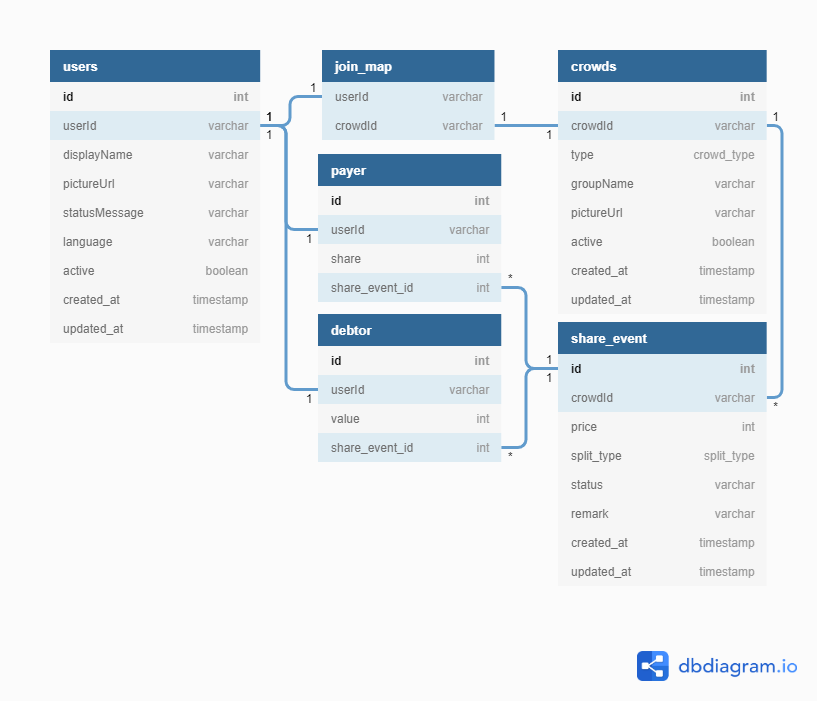
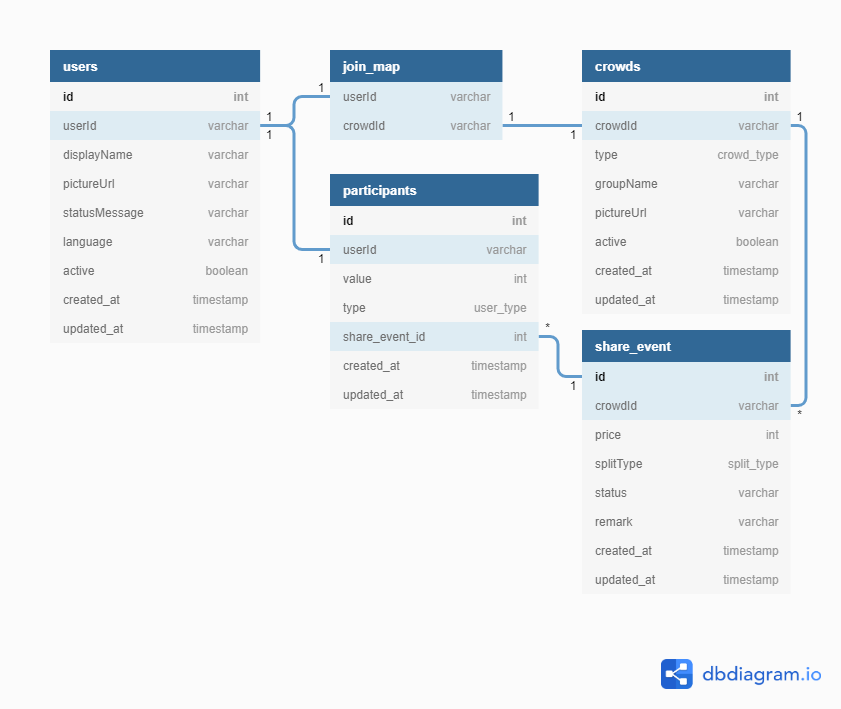
add share evnet

diff --git a/manage/migrations/20200920175602_create_users_table.js b/manage/migrations/20200920175602_create_users_table.js
@@ -1,63 +1,60 @@
 
 exports.up = function(knex) {
-    return knex.schema.createTable('users', function(table) {
-        table.increments('id');
-        table.string('userId');
-        table.string('displayName').notNullable();
-        table.string('pictureUrl').notNullable();
-        table.string('statusMessage');
-        table.string('language');
-        table.boolean('active');
-        
-        table.timestamp('created_at').defaultTo(knex.fn.now());
-        table.timestamp('updated_at').defaultTo(knex.fn.now());
-
-        table.unique(['userId']);
-      })
-      .createTable('crowds', function(table) {
-        table.increments('id');
-        table.string('crowdId')
-        table.enu('type', ['group', 'room']);
-        table.string('groupName');
-        table.string('pictureUrl');
-        table.boolean('active');
-        
-        table.timestamp('created_at').defaultTo(knex.fn.now());
-        table.timestamp('updated_at').defaultTo(knex.fn.now());
-
-        table.unique(['crowdId']);
-      })
-      .createTable('join_map', function(table) {
-        table.string('userId').notNullable().references('users.userId');
-        table.string('crowdId').notNullable().references('crowds.crowdId');
-
-        table.unique(['userId', 'crowdId'])
-      })
-      .createTable('share_event', function(table) {
-        table.increments('id');
-        table.string('crowdId').notNullable().references('crowds.crowdId');
-        table.integer('price');
-        table.enu('splitType', ['AVG', 'EXTRA', 'PERCENT', 'WEIGHTS', 'SINGLE']);
-        table.string('status');
-        table.string('remark');
-
-        table.timestamp('created_at').defaultTo(knex.fn.now());
-        table.timestamp('updated_at').defaultTo(knex.fn.now());
-      })
-      .createTable('payer', function(table) {
-        table.increments('id');
-        table.string('userId').notNullable().references('users.userId');
-        table.integer('value');
-        table.integer('share_event_id').notNullable().references('share_event.id');
-      })
-      .createTable('debtor', function(table) {
-        table.increments('id');
-        table.string('userId').notNullable().references('users.userId');
-        table.integer('value');
-        table.integer('share_event_id').notNullable().references('share_event.id');
-      })
+  return knex.schema.createTable('users', function(table) {
+      table.increments('id');
+      table.string('userId');
+      table.string('displayName').notNullable();
+      table.string('pictureUrl').notNullable();
+      table.string('statusMessage');
+      table.string('language');
+      table.boolean('active');
+      
+      table.timestamp('created_at').defaultTo(knex.fn.now());
+      table.timestamp('updated_at').defaultTo(knex.fn.now());  
+      table.unique(['userId']);
+    })
+    .createTable('crowds', function(table) {
+      table.increments('id');
+      table.string('crowdId')
+      table.enu('type', ['group', 'room']);
+      table.string('groupName');
+      table.string('pictureUrl');
+      table.boolean('active');
+      
+      table.timestamp('created_at').defaultTo(knex.fn.now());
+      table.timestamp('updated_at').defaultTo(knex.fn.now());  
+      table.unique(['crowdId']);
+    })
+    .createTable('join_map', function(table) {
+      table.string('userId').notNullable().references('users.userId');
+      table.string('crowdId').notNullable().references('crowds.crowdId');  
+      table.unique(['userId', 'crowdId'])
+    })
+    .createTable('share_event', function(table) {
+      table.increments('id');
+      table.string('crowdId').notNullable().references('crowds.crowdId');
+      table.integer('price');
+      table.enu('splitType', ['AVG', 'EXTRA', 'PERCENT', 'WEIGHTS', 'SINGLE']);
+      table.string('status');
+      table.string('remark');  
+      table.timestamp('created_at').defaultTo(knex.fn.now());
+      table.timestamp('updated_at').defaultTo(knex.fn.now());
+    })
+    .createTable('participants', function(table) {
+      table.increments('id');
+      table.string('userId').notNullable().references('users.userId');
+      table.integer('value');
+      table.enu('type', ['PAYER', 'DEBTOR']);
+      table.integer('share_event_id').notNullable().references('share_event.id');  
+      table.timestamp('created_at').defaultTo(knex.fn.now());
+      table.timestamp('updated_at').defaultTo(knex.fn.now());
+    })
 };
 
 exports.down = function(knex) {
-    return knex.schema.dropTable('users');
+  return knex.schema.dropTable('users')
+    .dropTable('crowds')
+    .dropTable('join_map')
+    .dropTable('share_event')
+    .dropTable('participants');
 };

diff --git a/manage/www/router/inOut.js b/manage/www/router/inOut.js
@@ -1,5 +1,6 @@
 const { text, line } = require('bottender/router');
 const crowdModel = require('../models/crowds');
+const joinMapModel = require('../models/joinMap');
 const client = require('../models/line');
 
 async function HandleJoin(context) {
@@ -7,7 +8,7 @@ async function HandleJoin(context) {
   const crowdId = type === 'group' ? context.event.join.groupId : context.event.join.roomId;
 
   let info = {
-    id: crowdId,
+    crowdId: crowdId,
     type: type,
     active: true
   }
@@ -34,30 +35,46 @@ async function HandleJoin(context) {
   
 async function HandleLeave(context) {
   const type = context.event.leave.type;
-  const id = type === 'group' ? context.event.leave.groupId : context.event.leave.roomId;
+  const crowdId = type === 'group' ? context.event.leave.groupId : context.event.leave.roomId;
 
-  return crowdModel.update(id, {active: false})
+  return crowdModel.update(crowdId, {active: false})
     .then((result) => {
       console.log(result[0]);
     })
 }
 
 async function addCrowd(context) {
-  const {userId, groupId, roomId} = context.event.source
-  const crowdId = groupId || roomId
+  const {userId, groupId, roomId} = context.event.source;
+  const crowdId = groupId || roomId;
   if (['group', 'room'].includes(context.event.source.type)) {
-    const data = await userJoinModel.get(userId, crowdId)
-    if (data == null) {
-      await userJoinModel.create({
-        userId,
-        crowdId
-      })
+    const data = await joinMapModel.get(userId, crowdId)
+    if (data != null) {
+      return await context.sendText('已加入過');
     }
+    await joinMapModel.create({
+      userId,
+      crowdId
+    })
+
+    await context.sendText('加入成功');
   }
+}
+
+async function HandleMemberJoined(context) {
+  const {groupId, roomId} = context.event.joined.source;
+  const crowdId = groupId || roomId;
+}
+
+async function HandleMemberLeft(context) {
+  const {groupId, roomId} = context.event.left.source;
+  const crowdId = groupId || roomId;
 }
 
 module.exports = [
   text('[加入]', addCrowd),
   line.join(HandleJoin),
   line.leave(HandleLeave),
+
+  line.memberJoined(HandleMemberJoined),
+  line.memberLeft(HandleMemberLeft),
 ]

diff --git a/manage/www/models/shareEvents.js b/manage/www/models/shareEvents.js
@@ -1,14 +1,22 @@
-const knex = require('../models/db')
+const knex = require('./db')
 
-const TABLE_NAME = 'users'
+const TABLE_NAME = 'share_event'
 
 let columns = null
 knex(TABLE_NAME).columnInfo().then((cols) => {
     columns = Object.keys(cols)
 })
 
-create = (member) => {
-    return knex(TABLE_NAME).insert(member).returning(columns)
+splitTypeEnum = {
+    AVG: 'AVG',
+    EXTRA: 'EXTRA',
+    PERCENT: 'PERCENT',
+    WEIGHTS: 'WEIGHTS',
+    SINGLE: 'SINGLE'
+}
+
+create = (event) => {
+    return knex(TABLE_NAME).insert(_.pick(event, columns)).returning(columns)
 }
 
 get = (userId, attri = columns) => {
@@ -21,7 +29,8 @@ update = (userId, updateObj) => {
 }
 
 module.exports = {
-    get: get,
-    create: create,
-    update: update,
+    get,
+    create,
+    update,
+    splitTypeEnum
 }

diff --git a/manage/www/router/follow.js b/manage/www/router/follow.js
@@ -8,9 +8,9 @@ async function HandleFollow(context) {
     .then(member => {
       member.active = true;
 
-      userModel.getUser(userId)
+      userModel.get(userId)
         .then((user) => {
-          return user == null ? userModel.createUser(member) : userModel.updateUser(userId, member)
+          return user == null ? userModel.create(member) : userModel.update(userId, member)
         })
         .then((users) => {
           console.log(users[0]);
@@ -21,7 +21,7 @@ async function HandleFollow(context) {
 async function HandleUnfollow(context) {
   const userId = context.event.unfollow.userId;
 
-  return userModel.updateUser(userId, {active: false})
+  return userModel.update(userId, {active: false})
     .then((users) => {
       console.log(users[0]);
     })

diff --git a/manage/www/router/share.js b/manage/www/router/share.js
@@ -1,0 +1,26 @@
+const { text, line } = require('bottender/router');
+const shareEventsModel = require('../models/shareEvents');
+const client = require('../models/line');
+
+async function addEvent(context, {
+    match: {
+      groups: {price, splitType},
+    },
+  }
+  ) {
+  const {userId, groupId, roomId} = context.event.source;
+  const crowdId = groupId || roomId;
+  if (context.event.source.type === 'user') {
+    await context.sendText('失敗');
+  }
+
+  console.log(price, splitType)
+
+  // shareEventsModel.create({
+    
+  // })
+}
+
+module.exports = [
+  text(new RegExp(`(?<price>\d+),(?<splitType>${Object.values(shareEventsModel.splitTypeEnum).join('|')})`, 'i'), addEvent),
+]

diff --git a/manage/www/models/crowds.js b/manage/www/models/crowds.js
@@ -19,13 +19,13 @@ create = (join) => {
 }
 
 get = (id, attri = columns) => {
-    return knex.select(attri).from(TABLE_NAME).where({id: id}).first()
+    return knex.select(attri).from(TABLE_NAME).where({crowdId: id}).first()
 }
 
 update = (id, updateObj) => {
     updateObj.updated_at = new Date();
-    const _updateObj = _.pick(updateObj, columns.filter((field) => field !== 'id'))
-    return knex(TABLE_NAME).where({id: id}).update(_updateObj).returning(columns)
+    const _updateObj = _.pick(updateObj, columns.filter((field) => field !== 'crowdId'))
+    return knex(TABLE_NAME).where({crowdId: id}).update(_updateObj).returning(columns)
 }
 
 module.exports = {

diff --git a/manage/www/models/joinMap.js b/manage/www/models/joinMap.js
@@ -1,15 +1,20 @@
 let _ = require('lodash');
-const knex = require('../models/db')
+const knex = require('./db')
 
-const TABLE_NAME = 'userJoin'
+const TABLE_NAME = 'join_map'
 
 let columns = null
 knex(TABLE_NAME).columnInfo().then((cols) => {
     columns = Object.keys(cols)
 })
 
-create = (join) => {
-    return knex(TABLE_NAME).insert(_.pick(join, columns)).returning(columns)
+create = (data) => {
+    if (!Array.isArray(data)) {
+        data = [data]
+    }
+
+    data = data.map((row) => _.pick(row, columns))
+    return knex(TABLE_NAME).insert(data).returning(columns)
 }
 
 get = (userId, crowdId, attri = columns) => {

diff --git a/manage/www/src/index.js b/manage/www/src/index.js
@@ -2,7 +2,7 @@ const { router, line } = require('bottender/router');
 
 const follow = require('../router/follow');
 const inOut = require('../router/inOut');
-const userJoinModel = require('../models/userJoin');
+const share = require('../router/share');
 
 async function HandleMessage(context) {
   await context.sendText(context.event.text);
@@ -10,9 +10,10 @@ async function HandleMessage(context) {
 
 module.exports = async function App() {
   return router([
-    line.message(HandleMessage),
-
     ...follow,
-    ...inOut
+    ...inOut,
+    ...share,
+
+    line.message(HandleMessage)
   ]);
 }
